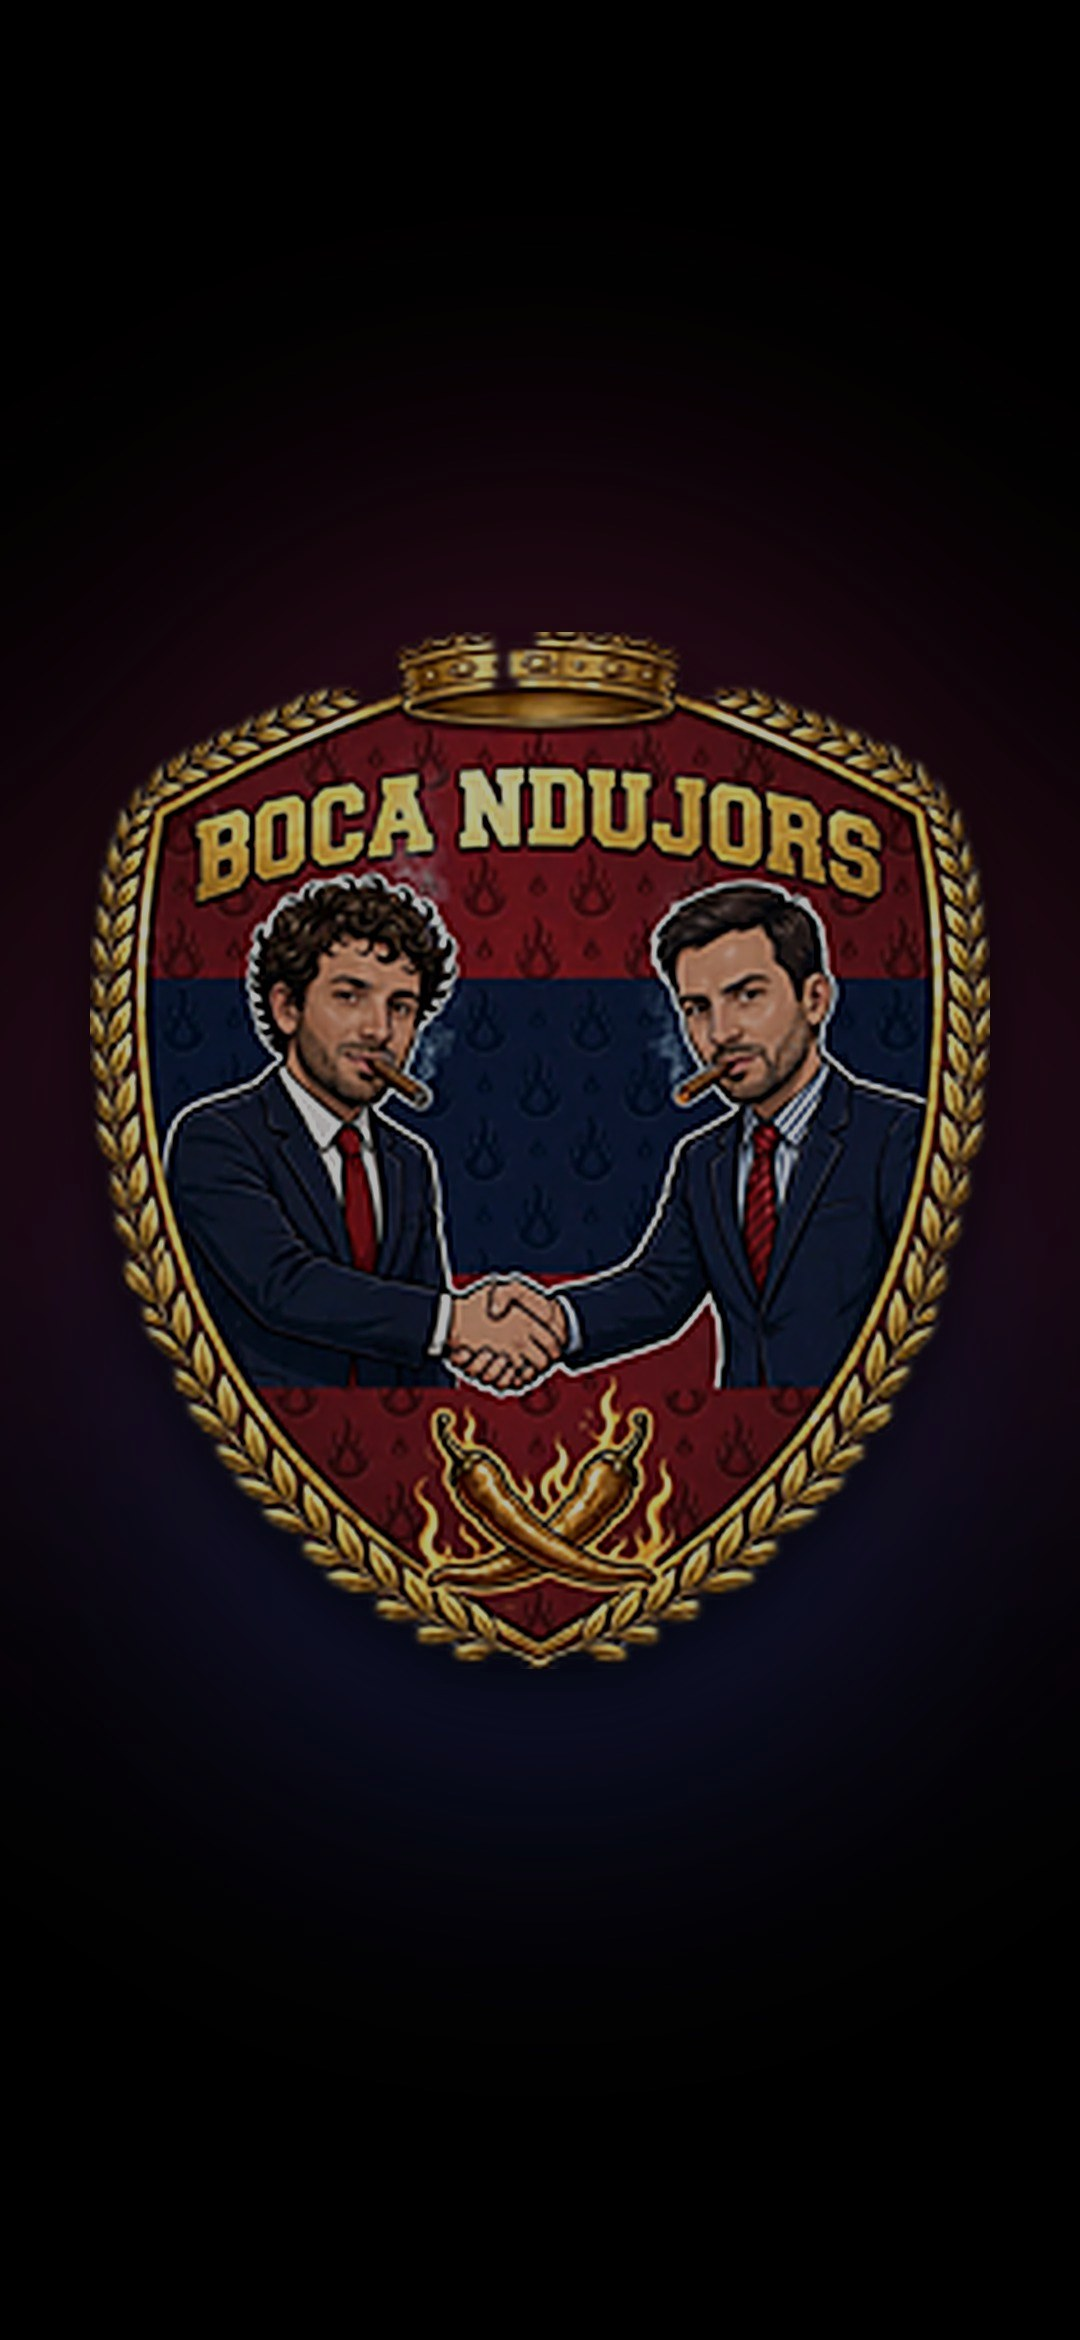
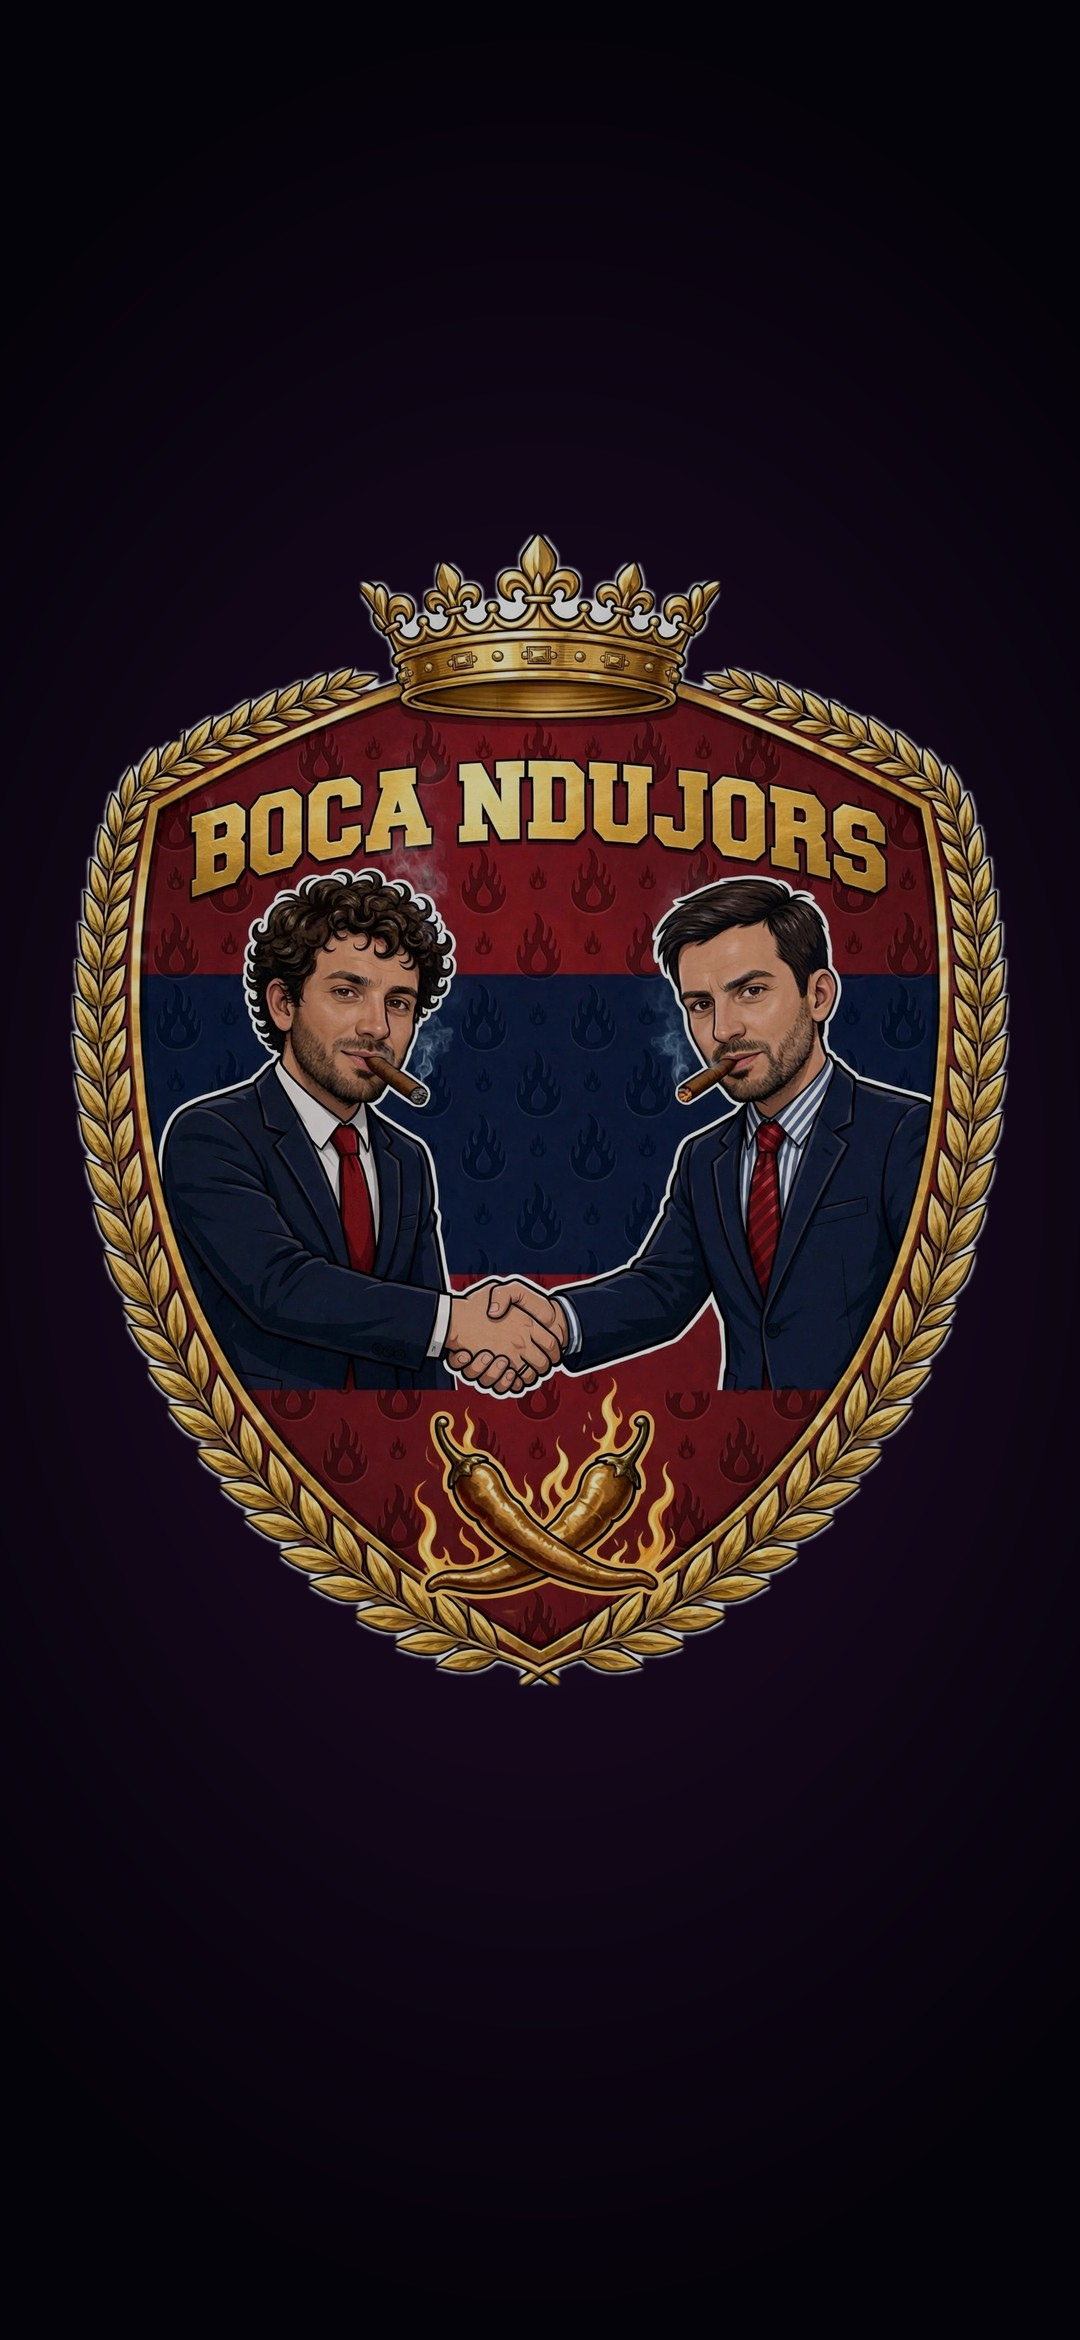
Stemma QI nitido (originale ritagliato dal marmo), sfondo QI rifatto; aggiorna.py: 3 tentativi sui timeout di rete e un guasto di sola rete non fa fallire il job

Changed region(s): [[0.0611, 0.2184, 0.9472, 0.7175], [0.4889, 0.4056, 0.55, 0.4368]]

diff --git a/scripts/aggiorna.py b/scripts/aggiorna.py
@@ -32,6 +32,24 @@ LISTONE = os.path.join(DATI, 'listone.json')   # [{id, nome, squadra}, ...]
 UA = {'User-Agent': 'Jarvis/1.0 (uso personale; aggiornamento 3 volte al giorno)'}
 TIMEOUT = 30
 
+
+def get(url, **kw):
+    """requests.get con 3 tentativi sui guasti di rete (timeout, connessione): le fonti ogni tanto
+    non rispondono per un attimo (07/10)."""
+    for tentativo in range(3):
+        try:
+            return requests.get(url, headers=UA, timeout=TIMEOUT, **kw)
+        except (requests.Timeout, requests.ConnectionError):
+            if tentativo == 2:
+                raise
+            time.sleep(5)
+
+
+def guasto(e):
+    """Uscita del giro: un guasto di sola rete tiene i dati di prima e non fa fallire il job
+    (niente mail di errore a ogni timeout); ogni altro errore sì."""
+    return 0 if isinstance(e, requests.RequestException) else 1
+
 URL_INFORTUNI = 'https://www.fantacalcio-online.com/it/infortunati-serie-a'
 # probabili della singola giornata: media di quattro redazioni
 URL_GIORNATA = 'https://www.fantacalcio-online.com/it/serie-a/2026-2027/probabili-formazioni/{}-giornata'
@@ -144,7 +162,7 @@ def scrivi(percorso, contenuto, minimo, etichetta, n=None):
 def infortuni(listone):
     # la fonte ogni tanto risponde 404 per un attimo (23/09): fino a 3 tentativi
     for tentativo in range(3):
-        r = requests.get(URL_INFORTUNI, headers=UA, timeout=TIMEOUT)
+        r = get(URL_INFORTUNI)
         if r.status_code == 200 or tentativo == 2:
             break
         time.sleep(5)
@@ -203,7 +221,7 @@ def titolari(listone, n):
     Le squadre per cui nessuna redazione ha ancora pubblicato restano fuori:
     l'app le mostra come "probabili non ancora uscite" invece di indovinare.
     """
-    r = requests.get(URL_GIORNATA.format(n), headers=UA, timeout=TIMEOUT)
+    r = get(URL_GIORNATA.format(n))
     r.raise_for_status()
     soup = BeautifulSoup(r.text, 'lxml')
     titolo = soup.title.get_text(strip=True) if soup.title else ''
@@ -285,7 +303,7 @@ def orari(vecchie):
     giornata e' ufficiale solo se nessuna partita e' a mezzanotte. Per le altre
     non si salva nessun orario, perche' sarebbe inventato.
     """
-    r = requests.get(URL_ORARI, headers=UA, timeout=TIMEOUT)
+    r = get(URL_ORARI)
     r.raise_for_status()
 
     partite = {}
@@ -327,7 +345,7 @@ def orari(vecchie):
 def righe_con_id(url):
     """Righe della tabella principale di una pagina di fantacalcio.it: l'Id del
     listone viene dal link del giocatore (…/roma/svilar/5841), non dal nome."""
-    r = requests.get(url, headers=UA, timeout=TIMEOUT)
+    r = get(url)
     r.raise_for_status()
     tabella = BeautifulSoup(r.text, 'lxml').find('table')
     if not tabella:
@@ -428,7 +446,7 @@ def righe_voti(testo):
 def voti_giornata(n, url=URL_VOTI):
     """Voto e fantavoto della redazione Fantacalcio di ogni giocatore della giornata n di
     Serie A, per Id; url ha {} al posto della giornata (di norma la stagione in corso)."""
-    r = requests.get(url.format(n), headers=UA, timeout=TIMEOUT)
+    r = get(url.format(n))
     r.raise_for_status()
     return {x['id']: [x['voto'], x['fantavoto']] for x in righe_voti(r.text)}
 
@@ -486,7 +504,7 @@ def somma(righe):
 
 def moduli():
     """Modulo abituale di ogni squadra, dalla tabella delle formazioni tipo di stagione."""
-    r = requests.get(URL_SQUADRE_TIPO, headers=UA, timeout=TIMEOUT)
+    r = get(URL_SQUADRE_TIPO)
     r.raise_for_status()
     soup = BeautifulSoup(r.text, 'lxml')
     out = {}
@@ -505,9 +523,9 @@ def squadre(abituali):
     Le neopromosse non hanno la Serie A dell'anno scorso: al loro posto si usa la
     media delle tre retrocesse, segnata come stima.
     """
-    attuale = requests.get(URL_ORARI, headers=UA, timeout=TIMEOUT)
+    attuale = get(URL_ORARI)
     attuale.raise_for_status()
-    passata = requests.get(URL_PRECEDENTE, headers=UA, timeout=TIMEOUT)
+    passata = get(URL_PRECEDENTE)
     passata.raise_for_status()
     partite, vecchie = attuale.json(), passata.json()
     if len(vecchie) != 380 or any(m.get('HomeTeamScore') is None for m in vecchie):
@@ -619,14 +637,14 @@ def main():
         scrivi(os.path.join(DATI, 'infortuni.json'), infortuni(listone), 5, 'infortuni')
     except Exception as e:
         print('[infortuni] fallito:', e)
-        uscita = 1
+        uscita = max(uscita, guasto(e))
 
     percorso = os.path.join(DATI, 'orari.json')
     try:
         scrivi(percorso, orari(precedenti(percorso, 'giornate')), 38, 'orari')
     except Exception as e:
         print('[orari] fallito:', e)
-        uscita = 1
+        uscita = max(uscita, guasto(e))
 
     # i voti di ogni giornata finita: «com'è andata» e l'andamento dei giocatori.
     # Il file si riscrive solo se cambia qualcosa, per non fare un commit a ogni giro.
@@ -640,7 +658,7 @@ def main():
             print('[voti] niente di nuovo.')
     except Exception as e:
         print('[voti] fallito:', e)
-        uscita = 1
+        uscita = max(uscita, guasto(e))
 
     # le probabili della giornata che interessa la lega, secondo gli orari salvati
     try:
@@ -658,7 +676,7 @@ def main():
                 print('[titolari] né probabili né indisponibili per questa giornata: tengo il file precedente.')
     except Exception as e:
         print('[titolari] fallito:', e)
-        uscita = 1
+        uscita = max(uscita, guasto(e))
 
     percorso_st = os.path.join(DATI, 'statistiche.json')
     try:
@@ -669,7 +687,7 @@ def main():
             scrivi(percorso_st, st, 400, 'statistiche', n=len(st['giocatori']))
     except Exception as e:
         print('[statistiche] fallito:', e)
-        uscita = 1
+        uscita = max(uscita, guasto(e))
 
     # senza nessuna scadenza il file non si riscrive: l'iPhone cancellerebbe gli eventi
     try:
@@ -683,7 +701,7 @@ def main():
             print(f'[calendario] scritte {scadenze} scadenze.')
     except Exception as e:
         print('[calendario] fallito:', e)
-        uscita = 1
+        uscita = max(uscita, guasto(e))
 
     try:
         try:
@@ -694,7 +712,7 @@ def main():
         scrivi(os.path.join(DATI, 'squadre.json'), squadre(abituali), 20, 'squadre')
     except Exception as e:
         print('[squadre] fallito:', e)
-        uscita = 1
+        uscita = max(uscita, guasto(e))
 
     sys.exit(uscita)
 
